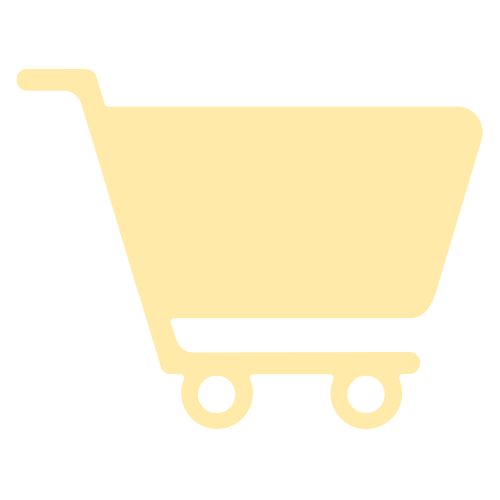
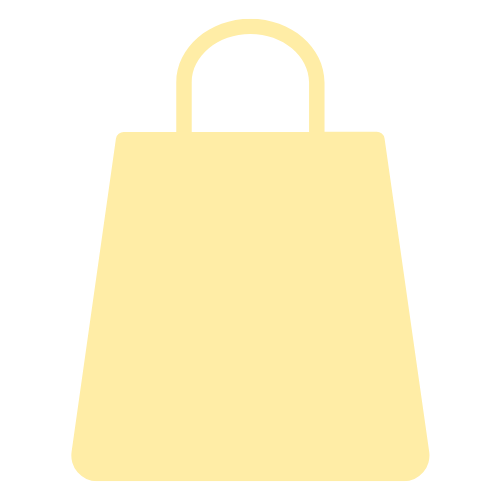
Styled the navigation bar for mobile and desktop layout

diff --git a/frontend/servio-frontend/src/app/components/navbar/navbar.css b/frontend/servio-frontend/src/app/components/navbar/navbar.css
@@ -1,0 +1,65 @@
+.navbar {
+  position: fixed;
+  top: 0;
+  left: 0;
+  right: 0;
+  z-index: 1000;
+
+  height: 72px;
+  padding: 0 28px;
+
+  display: flex;
+  justify-content: space-between;
+  align-items: center;
+
+  background: rgba(66, 66, 66, 0.65);
+  backdrop-filter: blur(12px);
+  -webkit-backdrop-filter: blur(14px);
+
+  border-radius: 0 0 20px 20px;
+  border: 1px solid rgba(112, 112, 112, 0.4);
+
+
+  box-shadow:
+    0 15px 25px rgba(0, 0, 0, 0.48),
+  inset 0 1px 30px rgba(234, 212, 212, 0.31);
+}
+
+.navbar-left .logo {
+  height: 80px;
+  cursor: pointer;
+}
+
+.navbar-right {
+  display: flex;
+  align-items: center;
+  gap: 16px;
+}
+
+.icon-btn {
+  background: rgba(255, 255, 255, 0.35);
+  border: 1px solid rgba(255, 255, 255, 0.4);
+  padding: 8px;
+  cursor: pointer;
+  border-radius: 14px;
+
+  transition:
+    background 0.2s ease,
+    transform 0.15s ease,
+    opacity 0.2s ease;
+}
+
+.icon-btn img {
+  width: 24px;
+  height: 24px;
+}
+
+.icon-btn:hover:not(.disabled) {
+  background: rgba(0, 0, 0, 0.06);
+}
+
+.icon-btn.disabled {
+  opacity: 0.4;
+  cursor: not-allowed;
+  pointer-events: none;
+}

diff --git a/frontend/servio-frontend/src/styles.css b/frontend/servio-frontend/src/styles.css
@@ -82,6 +82,7 @@ body {
 
   .hero {
     height: 70vh;
+    padding-top: 70px;
   }
 
 
